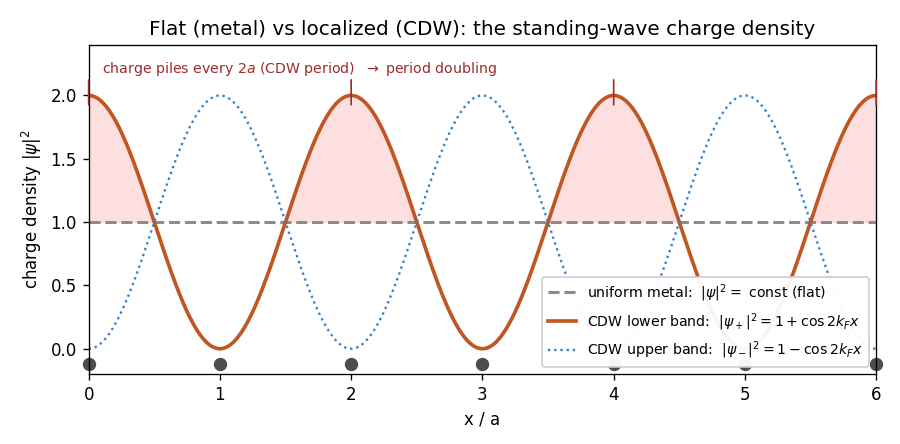
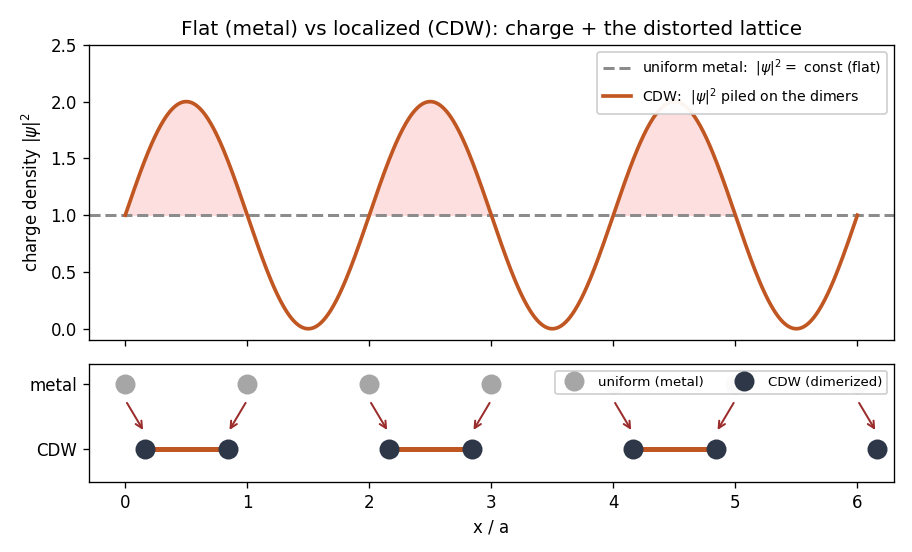
MP1: show the dimerized CDW lattice in the |psi|^2 figure (not uniform spacing)
The density figure now has two panels: charge density (flat metal vs CDW humps)
on top, and the atomic chain below as two rows -- uniform (equal spacing a) vs the
dimerized CDW (u_n = u0*(-1)^n, short dimer bonds on (0,1),(2,3),(4,5), period 2a)
with displacement arrows. Charge piles on the dimers. Update section 1.5 text to
describe the lattice dimerization alongside the charge localization.

Changed region(s): [[0.0, 0.0293, 0.9956, 0.9662], [0.5911, 0.7613, 0.6222, 0.7905]]

diff --git a/docs/miniprojects/01-nbse2-cdw.md b/docs/miniprojects/01-nbse2-cdw.md
@@ -176,11 +176,13 @@ $$
 $$
 
 A travelling wave $e^{ik_Fx}$ has uniform $|\psi|^2$ — charge spread evenly, a metal.
-The standing waves instead **pile charge periodically** with the CDW period
-$2\pi/2k_F = 2a$: $\psi_+$ heaps it on the ion rows, $\psi_-$ in between. This is the
-**"flat → localized"** picture that *is* the charge-density wave.
+The standing wave instead **piles charge periodically** with the CDW period
+$2\pi/2k_F = 2a$. And the lattice distorts to match: the atoms **dimerize**,
+$u_n = u_0(-1)^n$, pairing into short bonds with the charge heaped on them — the
+**"flat → localized"** picture that *is* the charge-density wave (top: charge;
+bottom: the uniform vs dimerized chains).
 
-![Flat vs localized standing-wave charge density](/img/MP1-peierls-density.png)
+![Flat vs localized standing-wave charge density and the dimerized lattice](/img/MP1-peierls-density.png)
 
 **The gap is just the energy difference of the two standing waves.** The lattice
 distortion supplies a potential whose only Fourier component is at $2k_F$,